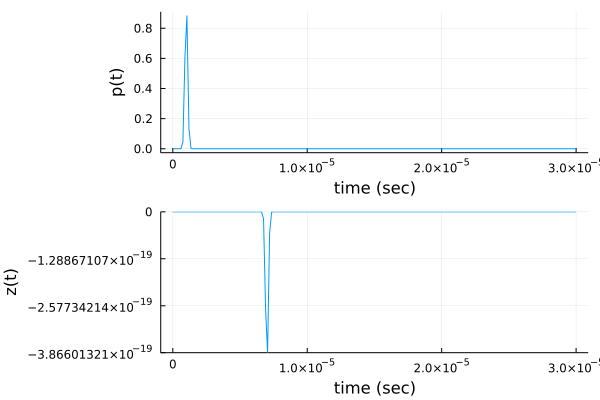
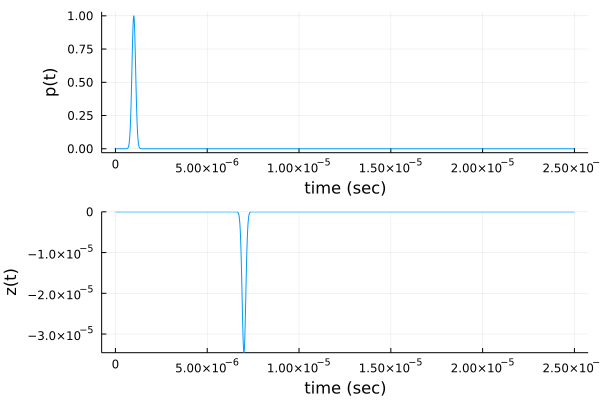
update STATdirectional B

diff --git a/docs/src/stationaryDirectionSource/stationaryDirSource.md b/docs/src/stationaryDirectionSource/stationaryDirSource.md
@@ -111,22 +111,22 @@ $\hat{\mathsf{f}}(\bm{\xi}) = \dfrac{\mathsf{z}\left(\mathrm{t_p}+\frac{2\|\bm{\
 {\mathsf{A}^2\big(\frac{\|\bm{\xi}-\mathbf{p}_\mathrm{r}\|}{\mathrm{c}}\big) }.$
 
 ```julia
-using LTVsystems, Plots
+using LTVsystems
+using Plots
 tₚ = 1.0e-06 
-T  = 15.0e-6
 𝐩ₛ =  [0.0, 0.0]
 𝐩ᵣ =  𝐩ₛ
 p(t) = δn(t-tₚ,1.0e-07)
 𝐛(t) = [cos(2π*10*(t-tₚ)),0.0]/(norm(cos(2π*10*(t-tₚ))))
-G(θ) = 𝒩ᵤ(θ, μ=0.0, σ=π/8)
+G(θ) = 𝒩ᵤ(θ, μ=0.0, σ=π/64)
 q = STATsourceD(𝐩ₛ,p,𝐛,G)
-α₀ = 0.7; 𝛏₀ = [0.2c*T,0.0]
+α₀ = -0.7; 𝛏₀ = [0.2c*T,0.0]
 r = pointReflector(𝛏₀,α₀,q)
-z = STATreceiverD([r],𝐩ᵣ,𝐛,G)
-Dₛ(ξ::Vector{Float64}) = G(angleBetween(𝐛(2norm(ξ-𝐩ₛ)/c), ξ.-𝐩ₛ))
+z = LTIreceiverO([r],𝐩ᵣ)
+Dₛ(ξ::Vector{Float64}) = G(angleBetween(𝐛(tₚ), ξ.-𝐩ₛ))
 f(ξ::Vector{Float64}) = (z(tₚ.+2(norm(ξ-𝐩ₛ))/c).*Dₛ(ξ))/
-(A(norm(ξ-𝐩ₛ)/c))^2
-inversePlot2D([q],[r],[z],f,T)
+                        (A(norm(ξ-𝐩ₛ)/c))^2
+inversePlot2D([q],[r],[z],f)
 ```
 ![](https://raw.githubusercontent.com/NMSU-ISA/LTVsystems/main/docs/src/assets/scenarioA_STATDirsimulation.png)
 
@@ -138,49 +138,48 @@ inversePlot2D([q],[r],[z],f,T)
 * single stationary directional source with time-varying beam center
 * single stationary receiver
 * single stationary ideal point reflector
-* the source emits an impulse
+* the source emits a pulse
 
 
 ### Forward Modeling
 
-For scenario B, we provided the position of the stationary direction source $𝐩ₛ$, with time-varying beam center $𝐛(t)$, the stationary direction receiver's position $𝐩ᵣ$, the transmitted signal $p(t)$, and an ideal point reflector $\bm{\xi}_0$.
+For scenario B, we provided the position of the stationary direction source $𝐩ₛ$, with time-varying beam center $𝐛(t)$, the stationary direction receiver's position $𝐩ᵣ$, the transmitted signal $\mathsf{p}(t)$, and an ideal point reflector $\bm{\xi}_0$.
 
 Now the expression for the reflector function is given by
 
-$f(\bm{\xi}) = \alpha_0 \delta(\bm{\xi} - \bm{\xi}_0).$
+$\mathsf{f}(\bm{\xi}) = \mathsf{\alpha}_0 \delta(\bm{\xi} - \bm{\xi}_0).$
 
 We compute the reflection due to the directional source as follows
 
-$\mathsf{r}(\bm{\xi},t) = \alpha_0 \delta(\bm{\xi} - \bm{\xi}_0)
+$\mathsf{r}(\bm{\xi},t) = \mathsf{\alpha}_0 \delta(\bm{\xi} - \bm{\xi}_0)
 \mathrm{D}_\mathrm{s}\big(\bm{\xi};\,{\mathbf{p}_\mathrm{s},\mathbf{b}_\mathrm{s}(\cdot)}\big)
 \mathsf{A}\left(\frac{\|\bm{\xi}-\mathbf{p}_\mathrm{s}\|}
-{\mathrm{c}}\right) p\left(t-\frac{\|\bm{\xi}-\mathbf{p}_\mathrm{s}\|}{\mathrm{c}}\right).$
+{\mathrm{c}}\right) \mathsf{p}\left(t-\frac{\|\bm{\xi}-\mathbf{p}_\mathrm{s}\|}{\mathrm{c}}\right).$
 
-Finally, the closed form expression of the observed signal, $z(t)$
-is given by
+Finally, the closed form expression of the observed signal, $\mathsf{z}(t)$ is given by
 
-$z(t) = \alpha_0 \mathrm{D}_
+$\mathsf{z}(t) = \mathsf{\alpha}_0 \mathrm{D}_
 \mathrm{s}\big(\bm{\xi}_0;\,{\mathbf{p}_\mathrm{s},
 \mathbf{b}_\mathrm{s}(\cdot)}\big)\mathsf{A}\left(\frac{\|\mathbf{p}_\mathrm{r}-\bm{\xi}_0\|}{\mathrm{c}}\right)
 \mathsf{A}\left(\frac{\|\bm{\xi}_0-
-\mathbf{p}_\mathrm{s}\|}{\mathrm{c}}\right) p\left(t-
+\mathbf{p}_\mathrm{s}\|}{\mathrm{c}}\right) \mathsf{p}\left(t-
 \frac{\|\mathbf{p}_\mathrm{r}-\bm{\xi}_0\|+\|\bm{\xi}_0-
 \mathbf{p}_\mathrm{s}\|}{\mathrm{c}}\right).$
 
 ```julia
-using LTVsystems, Plots
+using LTVsystems
+using Plots
 tₚ = 1.0e-06 
-T  = 15.0e-6
 𝐩ₛ =  [0.1c*T, 0.0]
 𝐩ᵣ =  [-0.1c*T, 0.0]
 p(t) = δn(t-tₚ,1.0e-07)
 𝐛(t) = [cos(2π*10*(t-tₚ)),0.0]/(norm(cos(2π*10*(t-tₚ))))
-G(θ) = 𝒩ᵤ(θ, μ=0.0, σ=π/8)
+G(θ) = 𝒩ᵤ(θ, μ=0.0, σ=π/64)
 q = STATsourceD(𝐩ₛ,p,𝐛,G)
-α₀ = 0.7; 𝛏₀ = [0.2c*T,0.0]
+α₀ = -0.7; 𝛏₀ = [0.2c*T,0.0]
 r = pointReflector(𝛏₀,α₀,q)
-z = STATreceiverD([r],𝐩ᵣ,𝐛,G)
-t=0.0:T/100:2T
+z = LTIreceiverO([r],𝐩ᵣ)
+t=0.0:1.0e-08:25.0e-06
 p1 = plot(t,p, xlab="time (sec)", ylab="p(t)", legend=:false)
 p2 = plot( t, z(t),ylims=(minimum(z(t)),maximum(z(t))), xlab="time (sec)", ylab="z(t)", legend=:false)
 plot(p1,p2,layout=(2,1))
@@ -190,32 +189,32 @@ plot(p1,p2,layout=(2,1))
 
 ### Inverse Modeling
 
-Given the scenario B assumptions, we obtained the received signal, $z(t)$. Now we can estimate the reflector function by considering the transmitted signal $p(t)=δ(t-t_p)$ as follows
+Given the scenario B assumptions, we obtained the received signal, $\mathsf{z}(t)$. Now we can estimate the reflector function by considering the transmitted signal as follows 
 
-$\hat{f}(\bm{\xi}) =\dfrac{z\left(t_p+\frac{\|\mathbf{p}_\mathrm{r}-
+$p(t)=δ(t-\mathrm{t_p})$ 
+
+$\hat{\mathsf{f}}(\bm{\xi}) =\dfrac{\mathsf{z}\left(\mathrm{t_p}+\frac{\|\mathbf{p}_\mathrm{r}-
 \bm{\xi}\|+\|\bm{\xi}-\mathbf{p}_\mathrm{s}\|}
-{\mathrm{c}}  \right)\mathrm{D}_\mathrm{s}\left(\bm{\xi};\,{\mathbf{p}_\mathrm{s},\mathbf{b}_\mathrm{s}\big(\frac{\|\mathbf{p}_\mathrm{r}-
-\bm{\xi}\|+\|\bm{\xi}-\mathbf{p}_\mathrm{s}\|}
-{\mathrm{c}}\big)}\right)}{\mathsf{A}\big(\frac{\|\bm{\xi}-\mathbf{p}_\mathrm{s}\|}{\mathrm{c}}\big)    
+{\mathrm{c}}  \right)\mathrm{D}_\mathrm{s}\left(\bm{\xi};\,{\mathbf{p}_\mathrm{s},\mathbf{b}_\mathrm{s}(\mathrm{t_p})}\right)}{\mathsf{A}\big(\frac{\|\bm{\xi}-\mathbf{p}_\mathrm{s}\|}{\mathrm{c}}\big)    
 \mathsf{A}\big(\frac{\|\mathbf{p}_\mathrm{r}-\bm{\xi}\|}{\mathrm{c}}\big)}
 .$
 
 ```julia
-using LTVsystems, Plots
+using LTVsystems
+using Plots
 tₚ = 1.0e-06 
-T  = 15.0e-6
 𝐩ₛ =  [0.1c*T, 0.0]
 𝐩ᵣ =  [-0.1c*T, 0.0]
 p(t) = δn(t-tₚ,1.0e-07)
 𝐛(t) = [cos(2π*10*(t-tₚ)),0.0]/(norm(cos(2π*10*(t-tₚ))))
-G(θ) = 𝒩ᵤ(θ, μ=0.0, σ=π/8)
+G(θ) = 𝒩ᵤ(θ, μ=0.0, σ=π/64)
 q = STATsourceD(𝐩ₛ,p,𝐛,G)
-α₀ = 0.7; 𝛏₀ = [0.2c*T,0.0]
+α₀ = -0.7; 𝛏₀ = [0.2c*T,0.0]
 r = pointReflector(𝛏₀,α₀,q)
-z = STATreceiverD([r],𝐩ᵣ,𝐛,G)
-Dₛ(ξ::Vector{Float64}) = G(angleBetween(𝐛((norm(ξ-𝐩ₛ) .+ norm(𝐩ᵣ-ξ))./c), ξ.-𝐩ₛ))
+z = LTIreceiverO([r],𝐩ᵣ)
+Dₛ(ξ::Vector{Float64}) = G(angleBetween(𝐛(tₚ), ξ.-𝐩ₛ))
 f(ξ::Vector{Float64}) = (z(tₚ.+(norm(ξ-𝐩ₛ) .+ norm(𝐩ᵣ-ξ))./c).*Dₛ(ξ))/(A(norm(ξ-𝐩ₛ)/c).*A(norm(𝐩ᵣ-ξ)/c))
-inversePlot2D([q],[r],[z],f,T)
+inversePlot2D([q],[r],[z],f)
 ```
 ![](https://raw.githubusercontent.com/NMSU-ISA/LTVsystems/main/docs/src/assets/scenarioB_STATDirsimulation.png)
 
